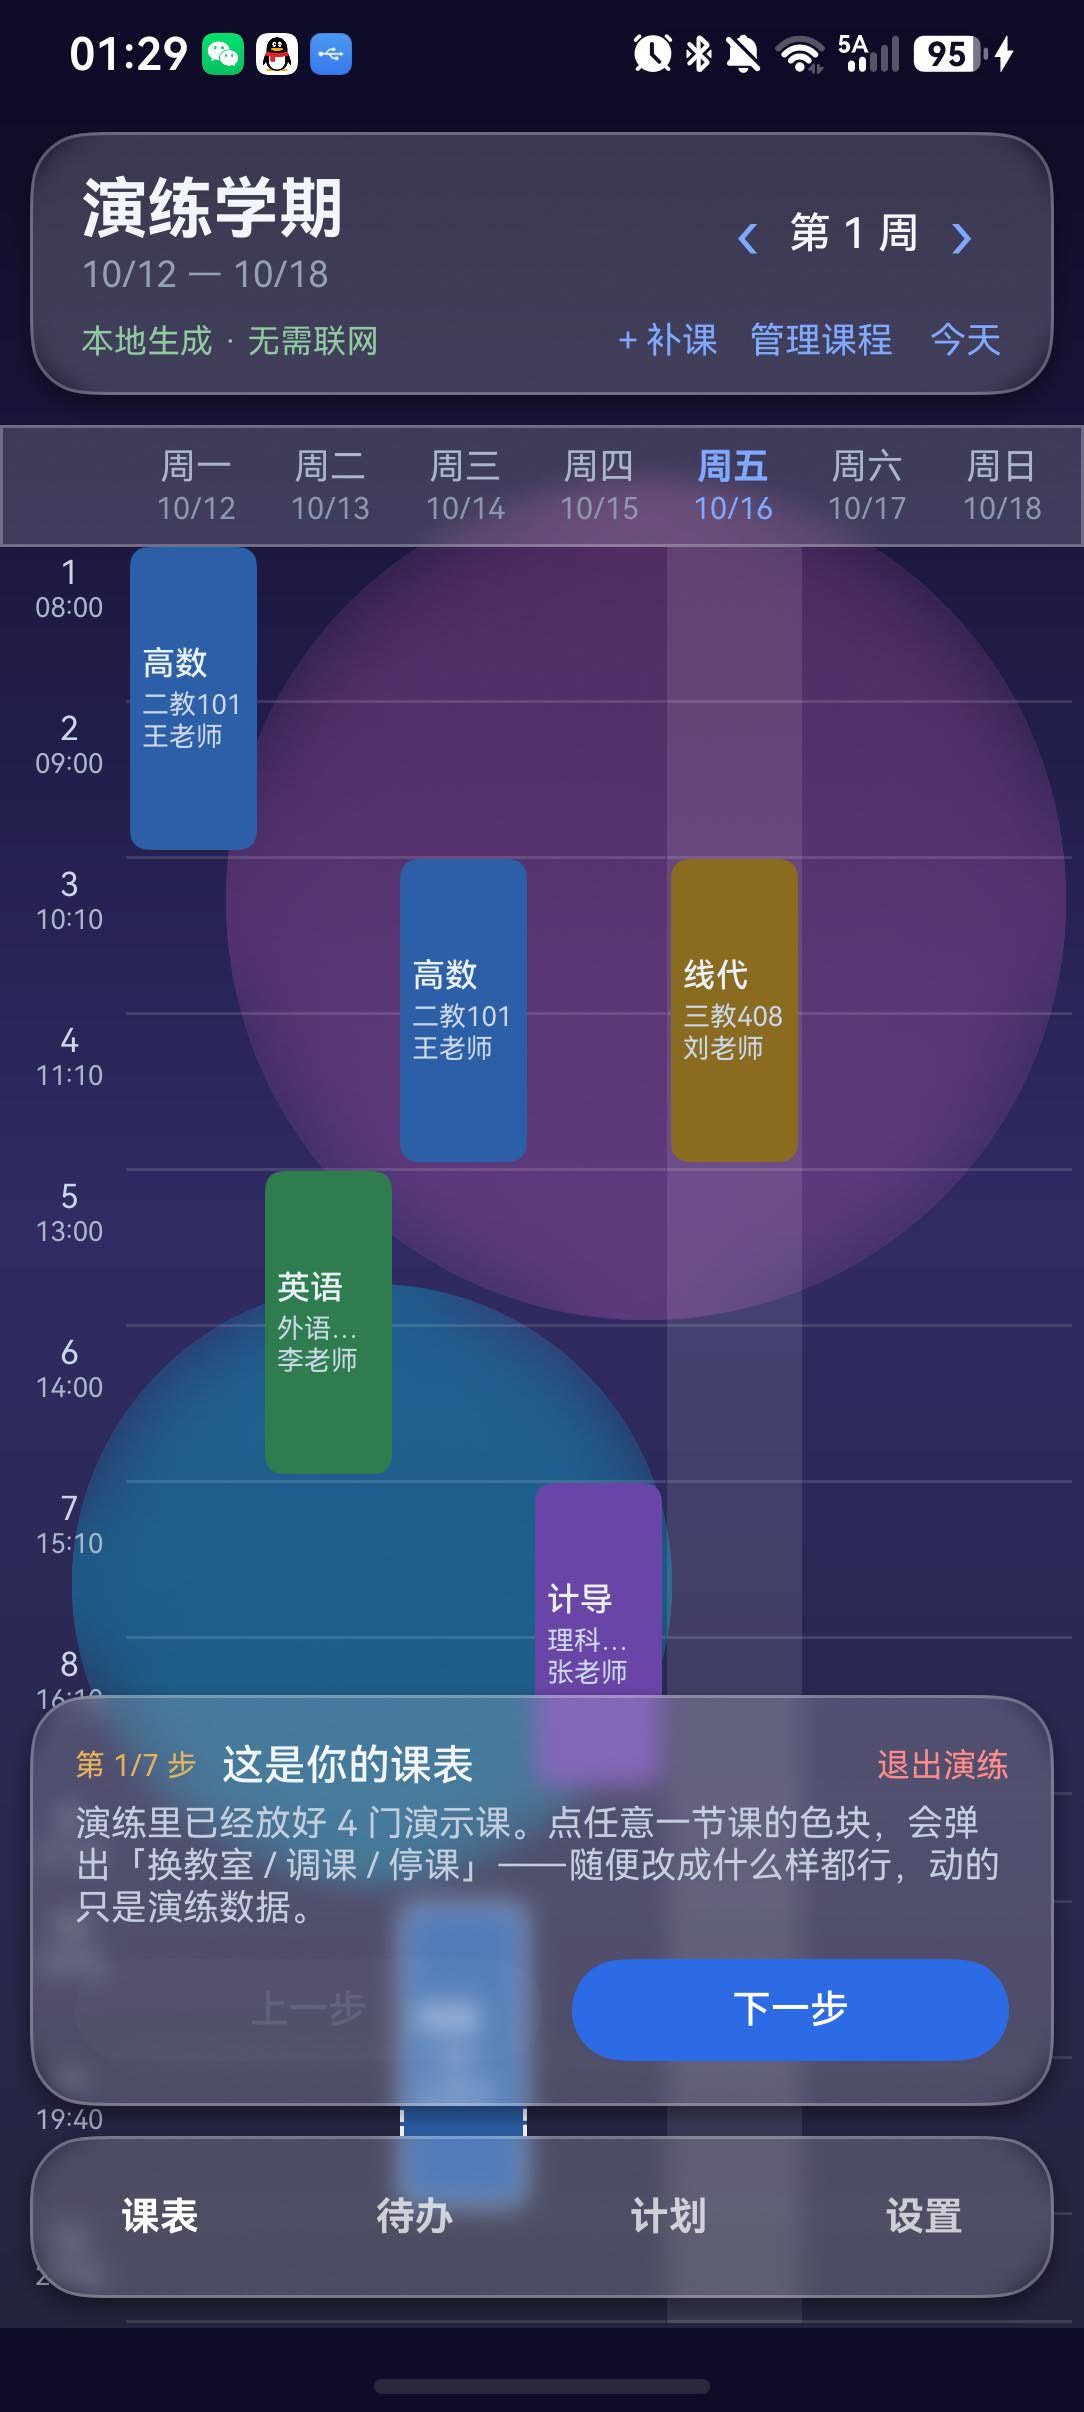
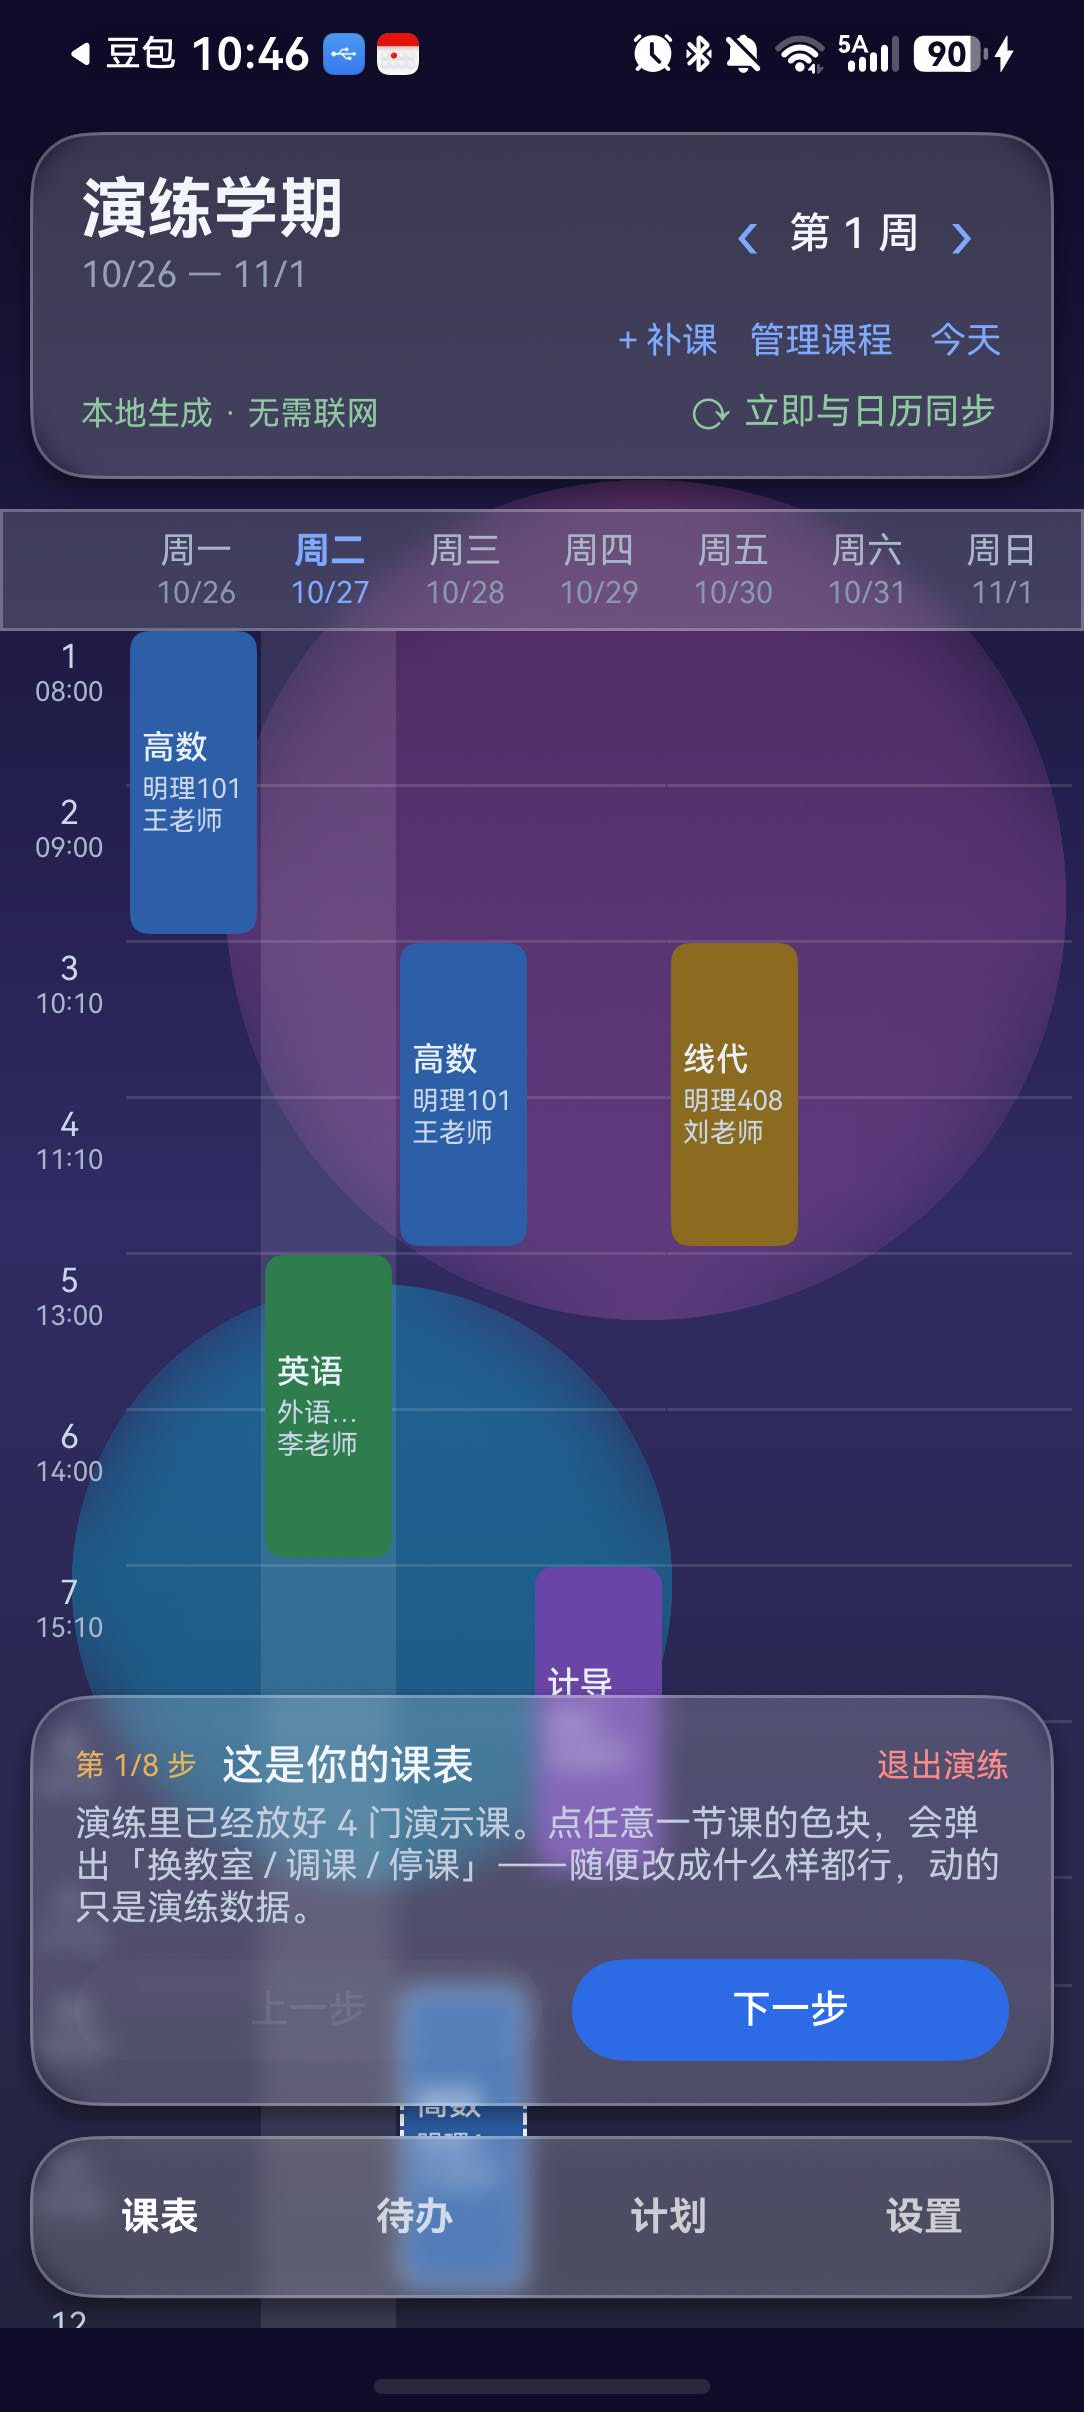
上架收尾：deviceTypes 只报手机；07-guide 重拍为第 1/8 步（默认渐变背景）
- module.json5: deviceTypes 从 phone+tablet 改成只报 phone（平板布局未真机验证）
- docs/manual/07-guide.jpg：旧图还写着「第 1/7 步」，重拍成 8 步版的第 1/8 步；
  重拍前在应用里恢复了默认渐变壁纸（真实数据未受影响，壁纸副本已被清掉）
- STORE.md：兼容设备/截图两项改成已就绪；审核风险里的平板一条标为已解决
- HANDOFF §130 记录做法与代价

diff --git a/HANDOFF.md b/HANDOFF.md
@@ -7618,3 +7618,30 @@ AGC 文案）；本轮补了三样仓库里能自己搞定的东西：
 
 > ⚠ 工具链是 5.1.0.840（API 18），官方说的「26.0.0 起 AGC 自动重签」用不上，
 > **仍要手动发布签名**。这条写进 `STORE.md` §5。
+
+## 130. 2026-10-27 上架两件收尾：只报手机 + 重拍新手演练截图
+
+用户拍板的两条：
+
+### 130.1 `deviceTypes` 只报手机
+
+- `entry/src/main/module.json5` 的 `deviceTypes` 从 `["phone", "tablet"]` 改成 **`["phone"]`**。
+  理由：平板布局没在任何平板上真机验证过，先别把审核员引到没测过的设备上。
+- AGC 的「兼容设备」要和这里一致 —— 只勾手机（`STORE.md` §1 #14 / §2 已同步）。
+- 以后要加平板：先在平板上过一遍布局，再把 `tablet` 加回来。
+
+### 130.2 重拍 `docs/manual/07-guide.jpg`
+
+- 旧图是 **第 1/7 步**（引导早已是 8 步），且背景是默认渐变、和当时的真实设备不一致。
+- 做法：先在应用里「设置 → 背景 → **恢复默认渐变**」（会删掉拷进沙盒的那张壁纸），
+  再进「新手引导」截 **第 1/8 步**，退出演练（真实数据完好），最后把截图存成 `07-guide.jpg`。
+- ⚠ **用户的壁纸已被清掉**：他需要自己在「设置 → 背景 → 从相册选一张」重新选一次。
+  （`WallpaperRepo.clear()` 会删掉沙盒里的副本，只清 kv 不够，代码本来就是这么写的。）
+- 新图：`1084×2412`、默认渐变、演练沙箱数据、`第 1/8 步 这是你的课表`。
+
+### 130.3 验证
+
+- `assembleHap` 干净通过（`ERROR: 0`、警告 6 条）；装机后手机正常启动、课表/待办数据完好。
+- 重装是覆盖安装（数据保留）；壁纸重置后才丢——这是"重拍"的既定代价。
+- 断言 **551 项仍全绿**（这轮没动 domain）。
+- `STORE.md` / `signing/release/README.md` 的状态表同步更新：兼容设备 ✅、截图 ✅。
